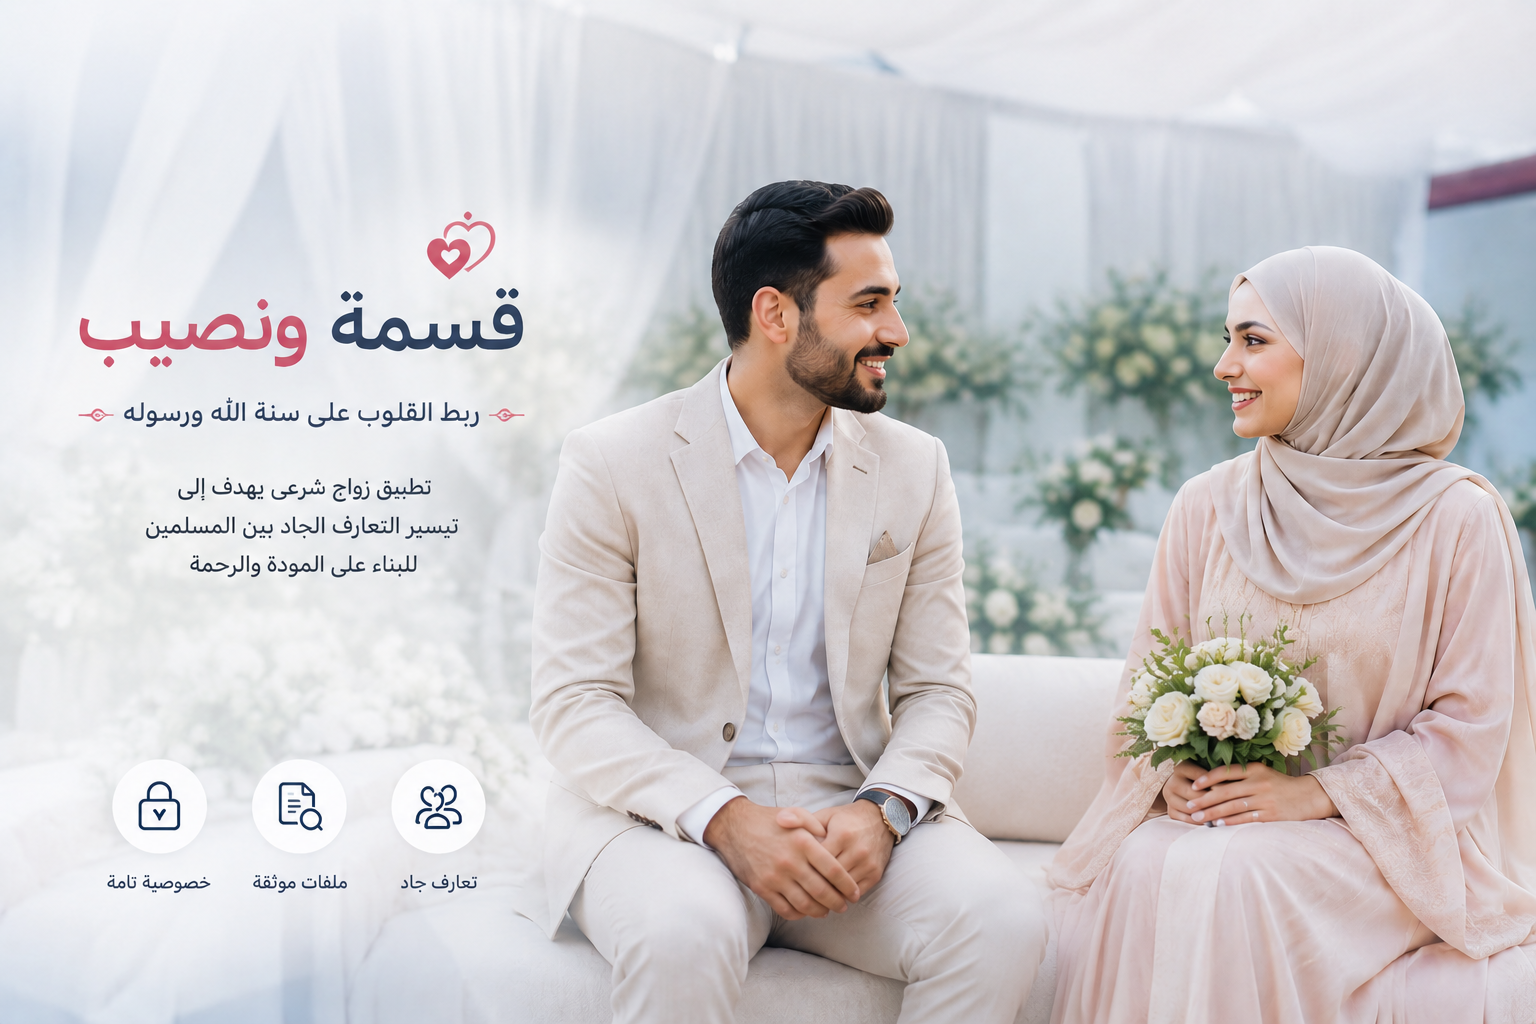
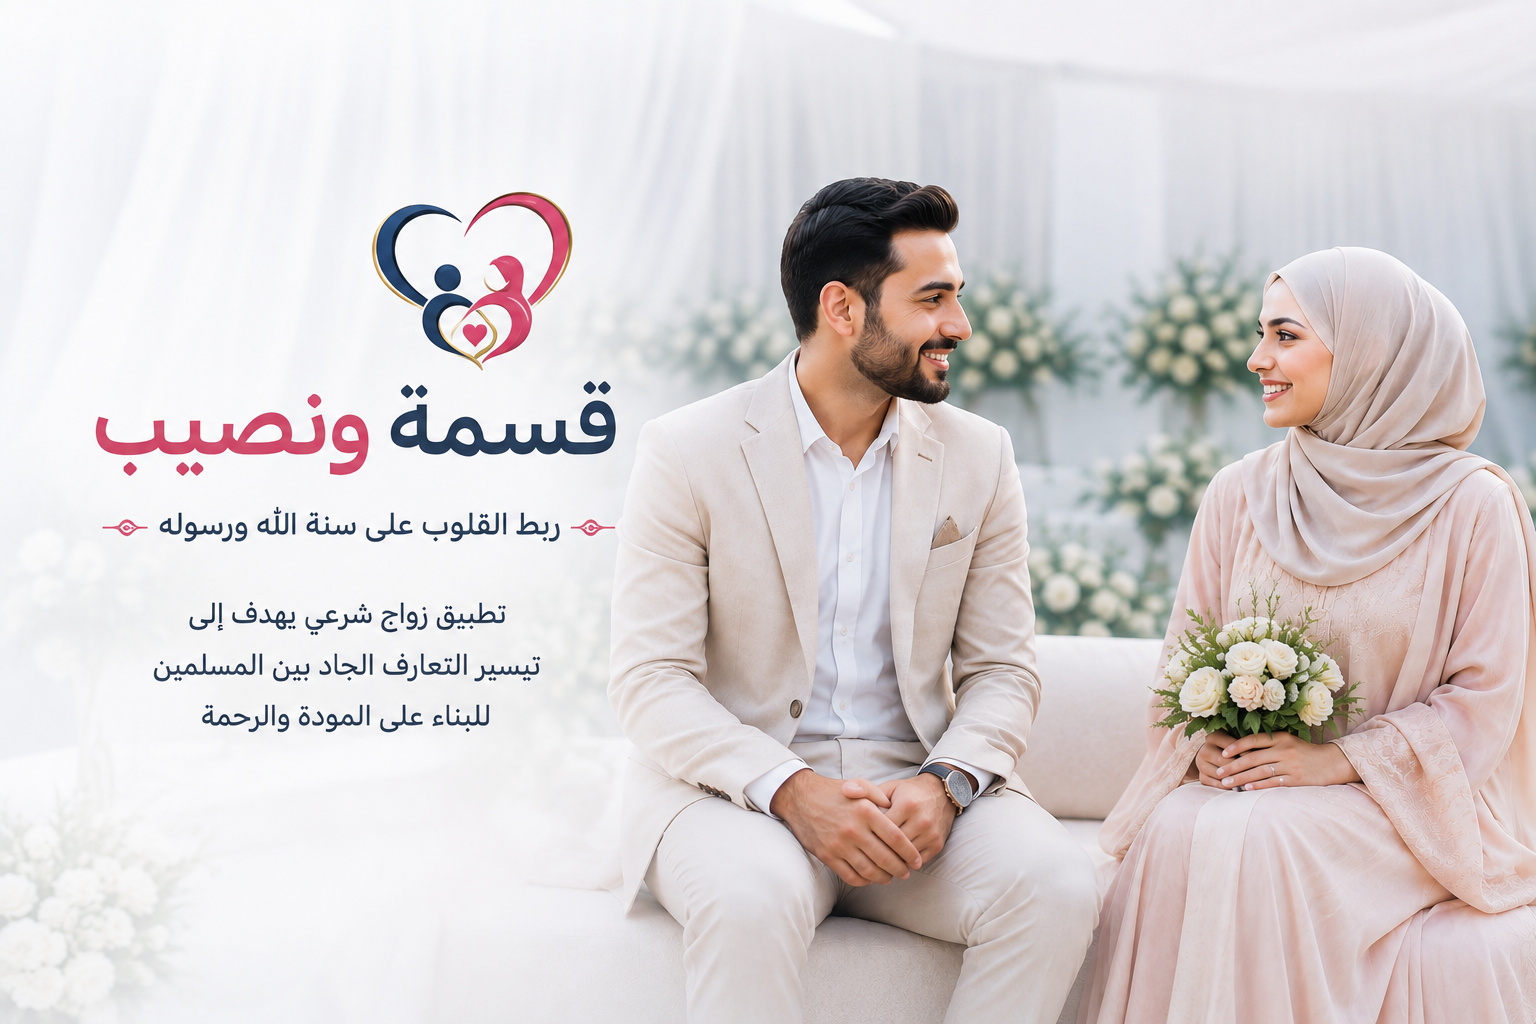
Swap in the user-provided hero images per locale
Replace the PIL-generated localized hero banners with the higher-quality
designed versions provided for each page: hero.png (ar), herofr.png (fr),
heroangl.png (en), herosp.png (es).

Note: herofr.png and herosp.png currently contain identical Spanish copy —
there's no real French hero image yet, used as-is per explicit instruction.

diff --git a/apps/web/src/app/page.tsx b/apps/web/src/app/page.tsx
@@ -91,7 +91,7 @@ export default function LandingPage() {
       <div className="relative">
         {/* eslint-disable-next-line @next/next/no-img-element */}
         <img
-          src="/hero.png?v=5"
+          src="/hero.png?v=6"
           alt="قسمة و نصيب — ربط القلوب على سنة الله ورسوله"
           className="h-auto max-h-[580px] w-full object-cover object-top"
         />

diff --git a/apps/web/src/components/landing/LocaleLandingContent.tsx b/apps/web/src/components/landing/LocaleLandingContent.tsx
@@ -58,7 +58,7 @@ export function LocaleLandingContent({ locale }: { locale: Locale }) {
 
   if (!hasHydrated || token) return null;
 
-  const heroSrc = locale === 'ar' ? '/hero.png?v=5' : `/hero-${locale}.png?v=1`;
+  const heroSrc = locale === 'ar' ? '/hero.png?v=6' : `/hero-${locale}.png?v=2`;
 
   return (
     <main className="flex min-h-screen flex-col">
